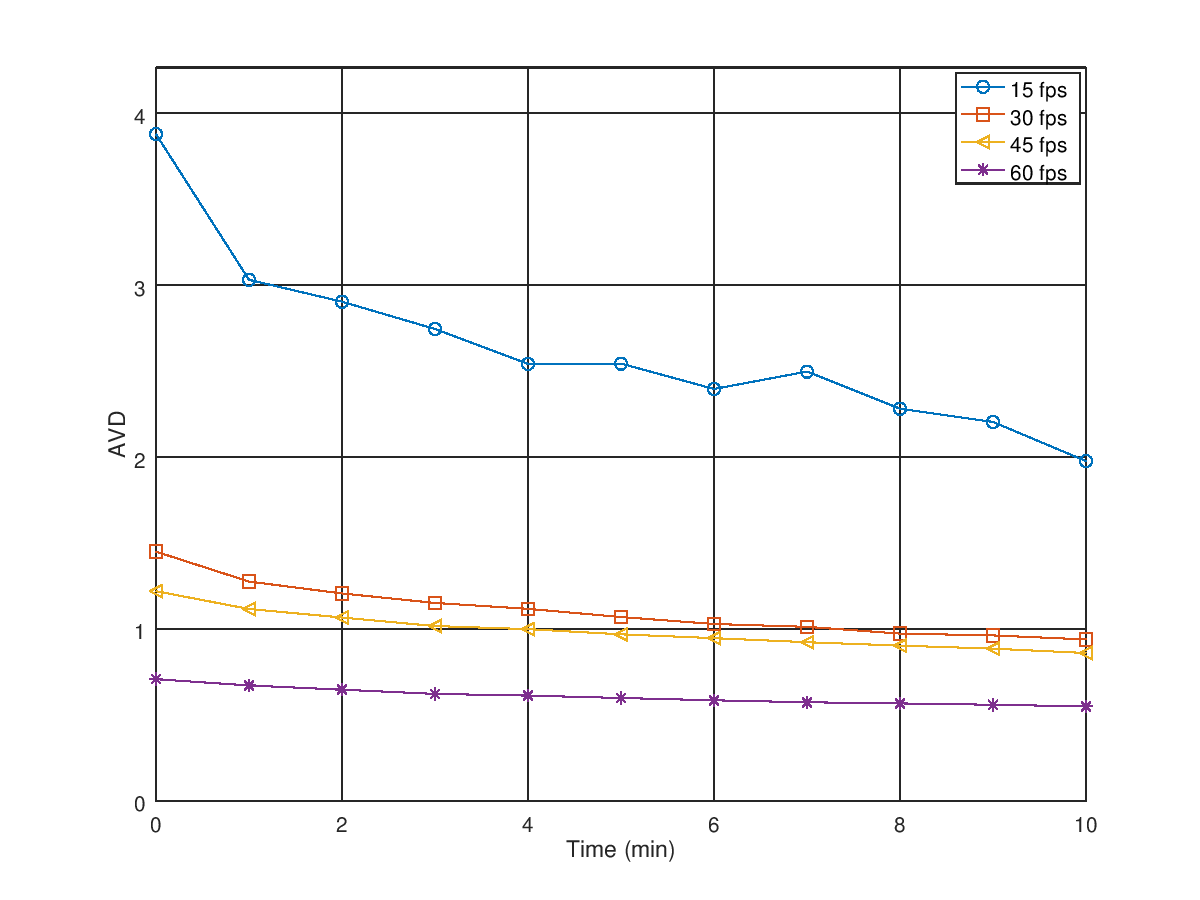
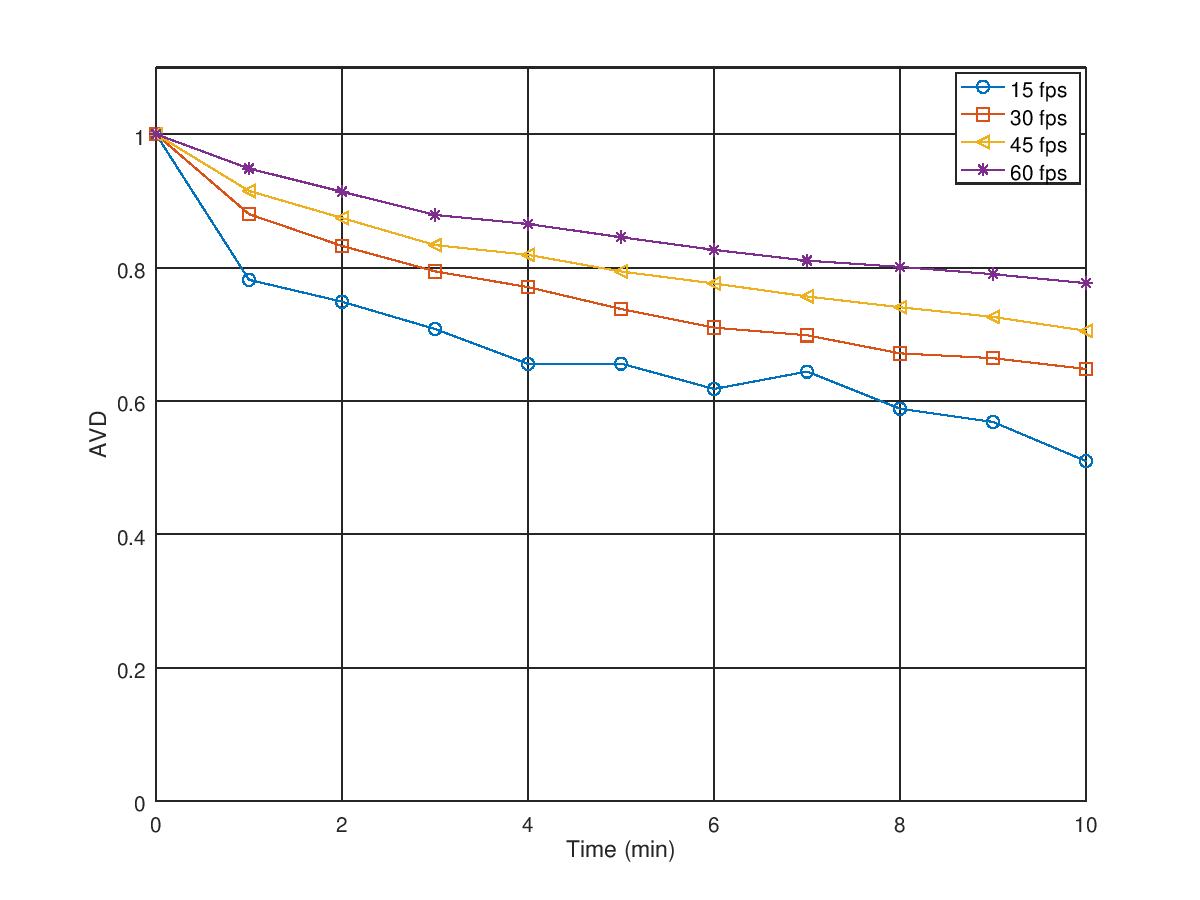
normalizando

diff --git a/mcode-15:15:60/programa.m b/mcode-15:15:60/programa.m
@@ -20,9 +20,9 @@ DIRSRC=fullfile(OUTPUT,filesep,'45fps');
 DIRSRC=fullfile(OUTPUT,filesep,'60fps');
 [STD60 MEAN60 AVD60 TIME]=func_dir_std(DIRSRC);
 
-func_programa_plot2(   STD15,MEAN15,AVD15,...
-                       STD30,MEAN30,AVD30,...
-                       STD45,MEAN45,AVD45,...
-                       STD60,MEAN60,AVD60,...
+func_programa_plot2(   STD15/max(STD15),MEAN15,AVD15/max(AVD15),...
+                       STD30/max(STD30),MEAN30,AVD30/max(AVD30),...
+                       STD45/max(STD45),MEAN45,AVD45/max(AVD45),...
+                       STD60/max(STD60),MEAN60,AVD60/max(AVD60),...
                        TIME,'FPS_f11','FPS_f11');
 
